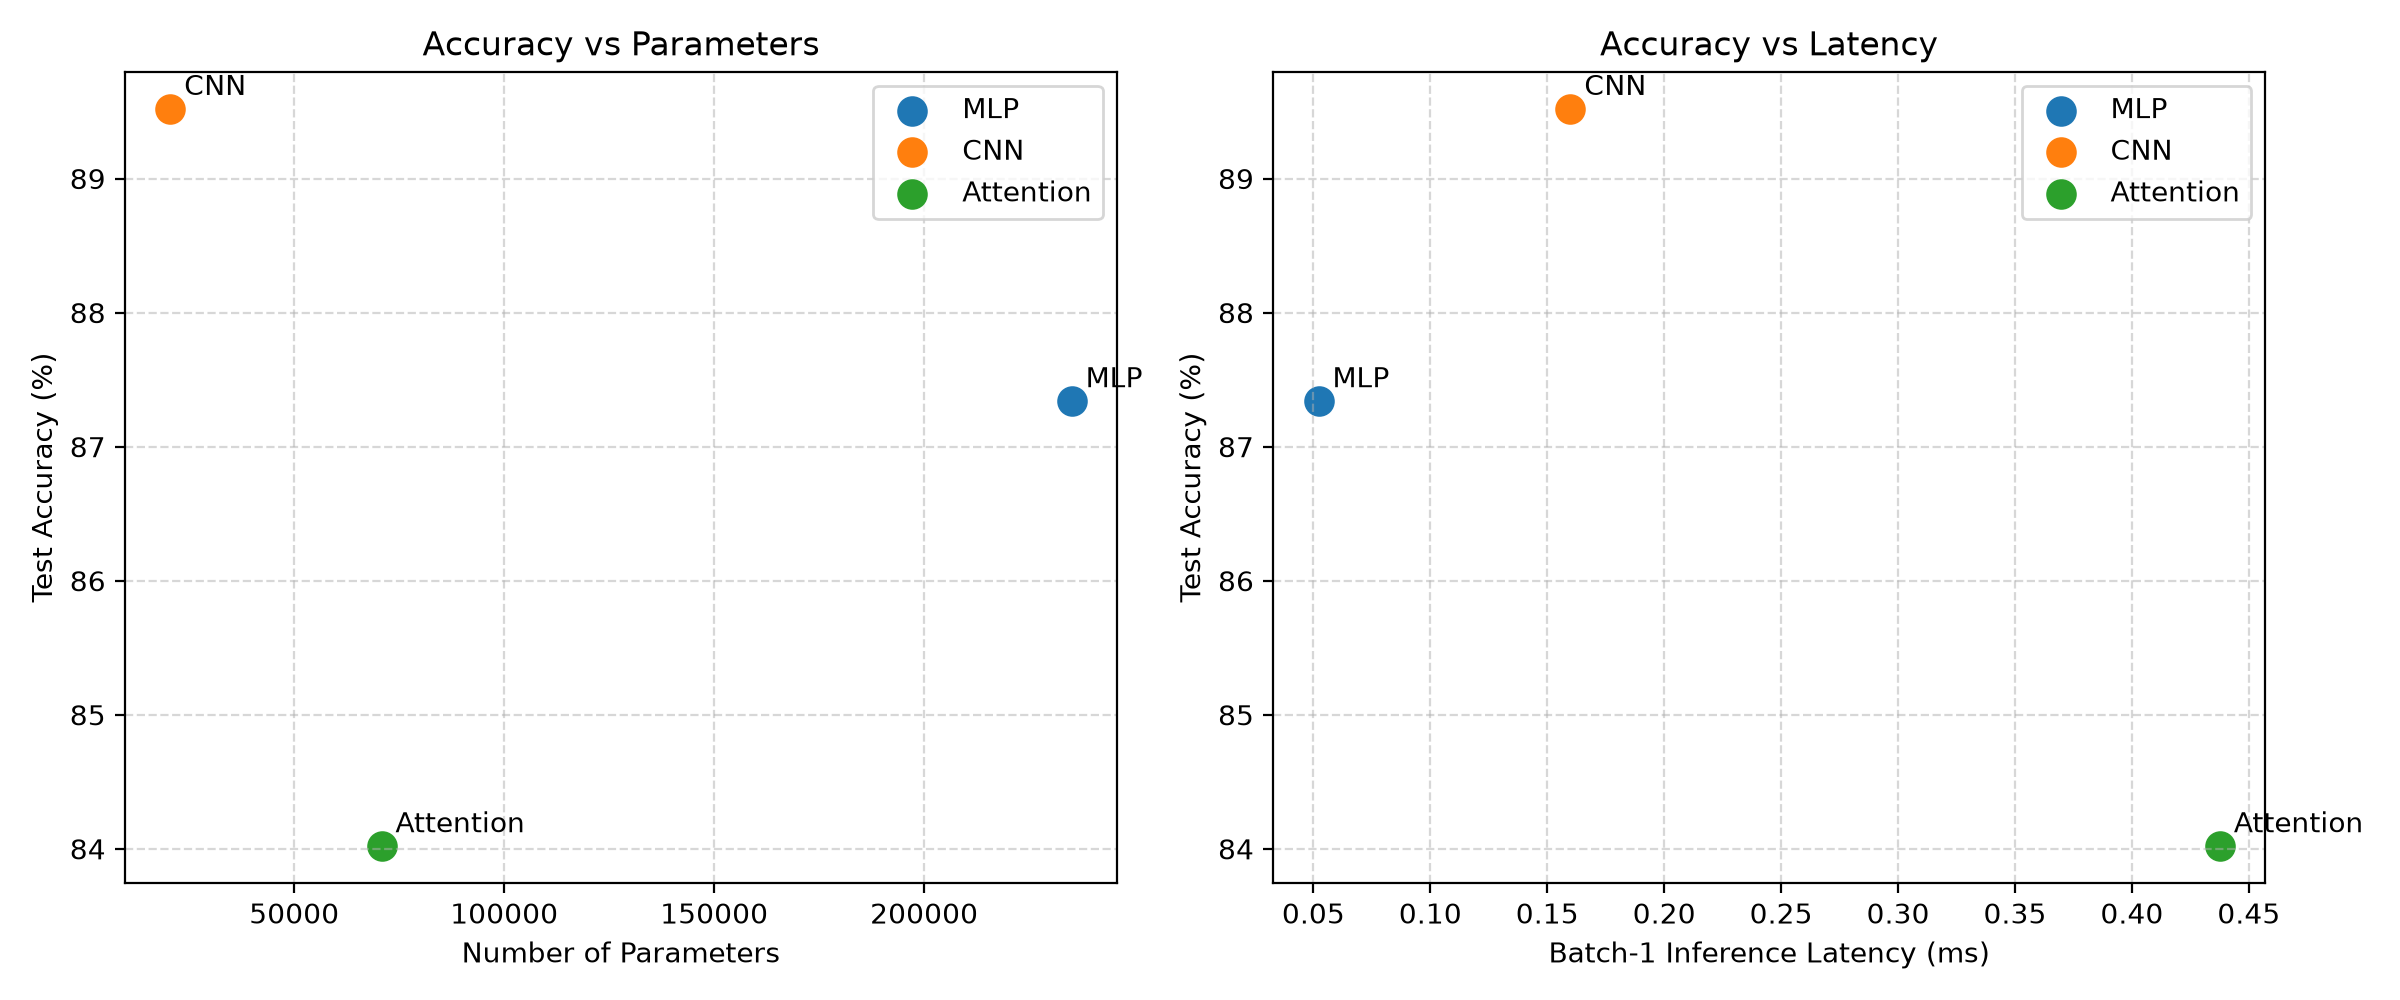
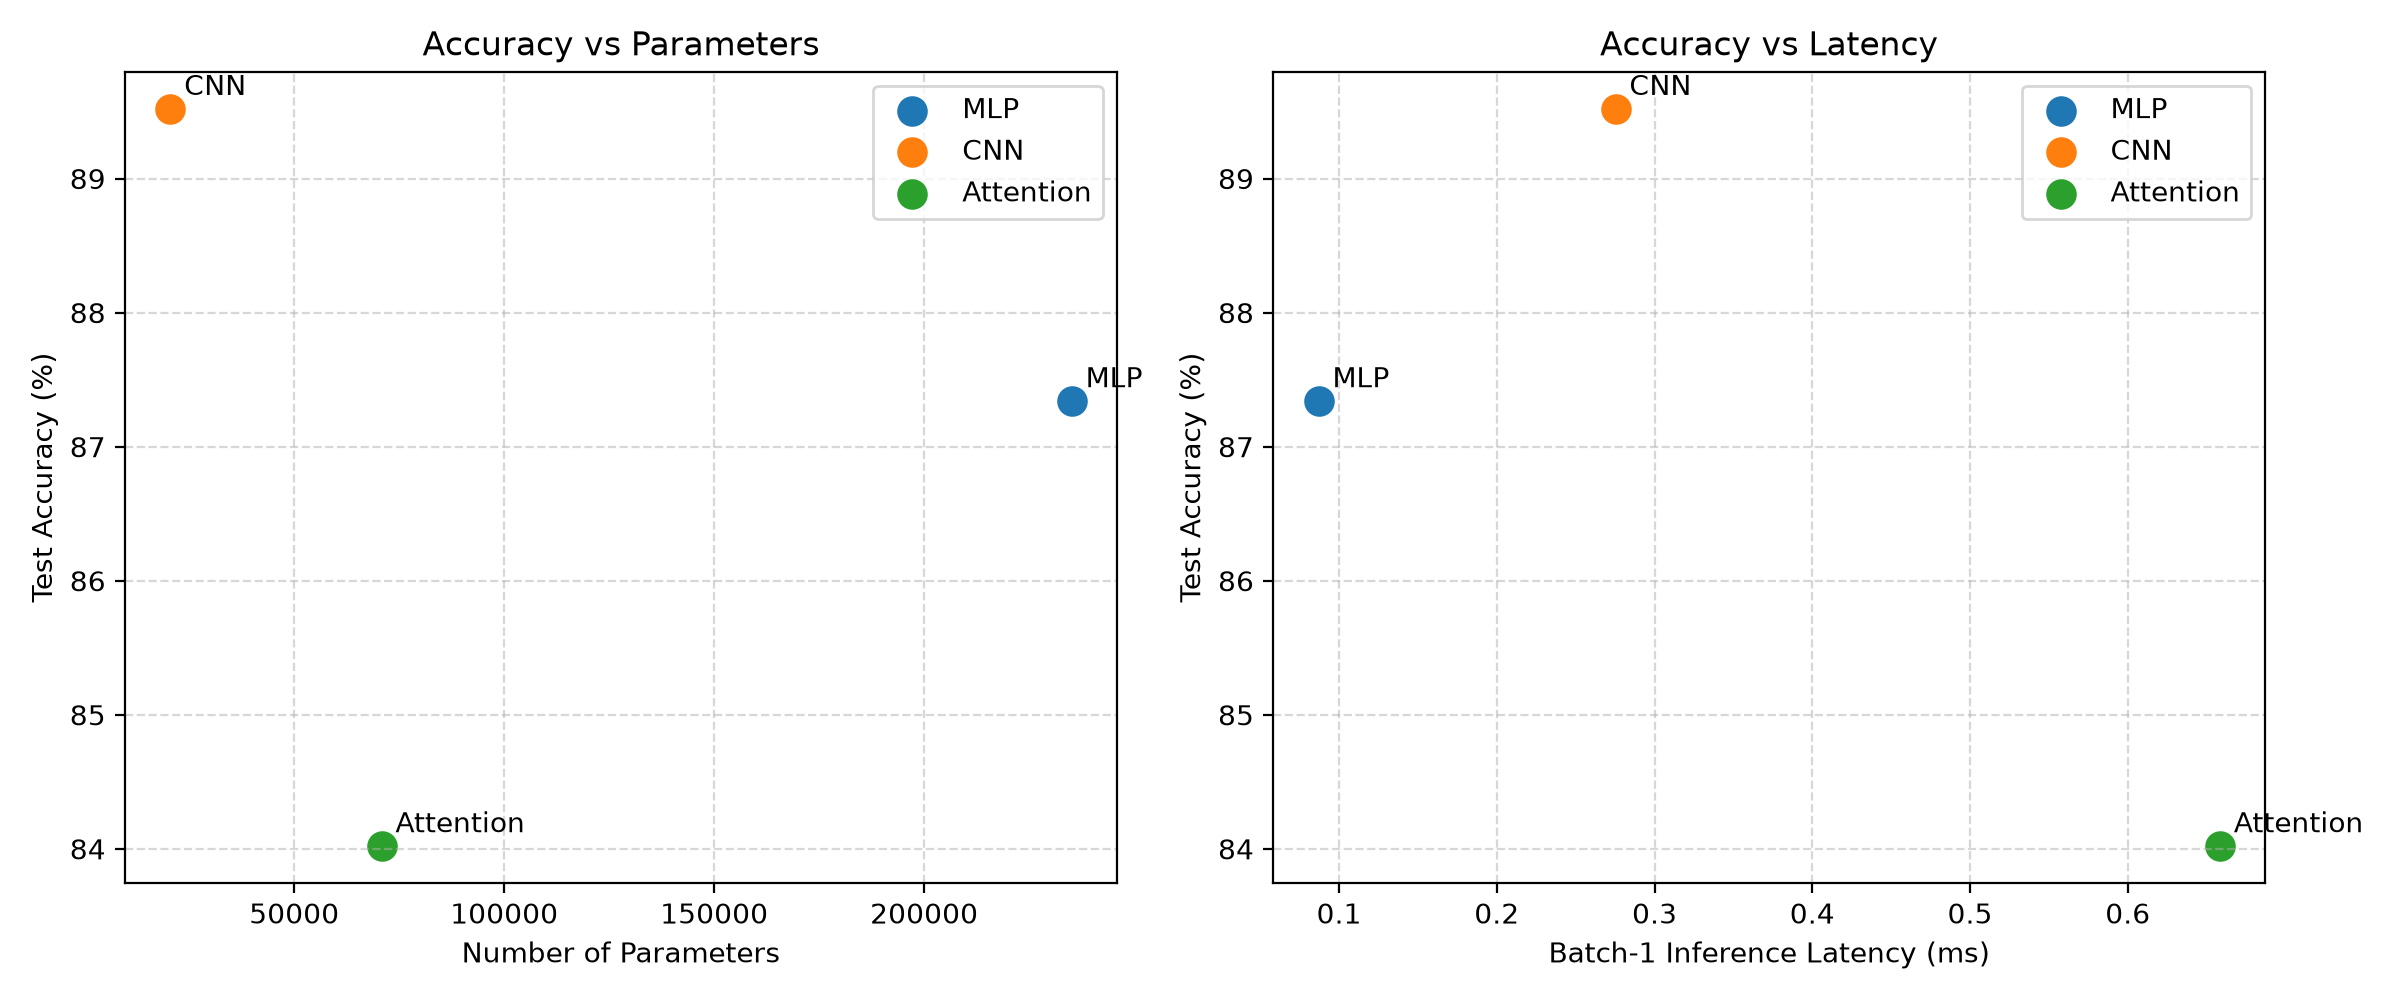
updated version

diff --git a/lab3.py b/lab3.py
@@ -12,9 +12,11 @@ import torch.optim as optim
 import torchvision
 import torchvision.transforms as transforms
 import thop
+import sys
 
 from torch.utils.data import DataLoader, random_split
 from torchinfo import summary
+sys.stdout.reconfigure(encoding='utf-8')
 
 # Experiment settings
 SEED = 42
@@ -306,9 +308,6 @@ def profile_model(model, inputs):
                 inputs=(inputs,),
                 verbose=False
             )
-
-        # THOP generally reports MACs not universally comparable
-        # hardware FLOP
         return {
             "macs": float(macs),
             "estimated_flops_2_per_mac": float(2 * macs),
@@ -353,7 +352,7 @@ def measure_latency(model, batch_size, runs):
         batch_size, 1, 28, 28, device=device
     )
 
-    # Warm-up runs are excluded from measurements
+    # Warm-up runs 
     with torch.inference_mode():
         for _ in range(10):
             model(inputs)
@@ -375,7 +374,6 @@ def measure_latency(model, batch_size, runs):
 
 
 for name, model in models.items():
-    # Manual specifies 100 runs for batch 1 and 20 for batch 128
     lat_1 = measure_latency(model, batch_size=1, runs=100)
     lat_128 = measure_latency(model, batch_size=128, runs=20)
 
@@ -482,7 +480,7 @@ def train_model(model, name):
             f"Val acc: {val_accuracy:.2f}%"
         )
 
-    # Evaluating the official test set after training
+    # Evaluating the official test set after train
     test_accuracy, test_loss = evaluate_model(
         model, test_loader, criterion
     )

diff --git a/report.md b/report.md
@@ -1,0 +1,57 @@
+# Lab 3 Report — Architecture Cost & Performance
+
+## Goal
+Compare an MLP, a CNN, and an Attention model on Fashion-MNIST and see which one gives the best accuracy per parameter, per FLOP, and per millisecond of latency.
+
+## Method
+Loaded Fashion-MNIST with `ToTensor()` and `Normalize((0.2860,), (0.3530,))`. Split the 60k training set into 55k train / 5k validation, kept the official 10k test set. Batch size 128, seed 42.
+
+Models:
+- **MLP**: `784 → 256 → 128 → 10` with ReLU.
+- **CNN**: two conv blocks (`Conv2d(1,16,3)` + MaxPool, `Conv2d(16,32,3)` + MaxPool) → Linear(32×7×7, 10).
+- **Attention**: 16 patches of 7×7 → Linear to 64 → 2 Transformer encoder layers (d_model=64, nhead=4, ff=128) → mean pool → Linear(64, 10).
+
+Counted parameters with `torchinfo.summary`, hand-calculated FLOPs for one layer of each type using the Ch. 4 formulas, and compared against `thop.profile`. Measured latency at batch 1 (median of 100) and batch 128 (median of 20). Trained all three for 5 epochs with Adam, lr=3e-3.
+
+## Results
+
+**Parameters**
+
+| Model | Params | Size (MB) |
+|---|---:|---:|
+| MLP | 235,146 | 0.94 |
+| CNN | 20,490 | 0.08 |
+| Attention | 70,794 | 0.15 |
+
+Only the CNN is close to the manual's 100k–150k target — the MLP overshoots and Attention undershoots. Reporting as measured.
+
+**Hand FLOPs vs THOP**
+
+| Model | Hand FLOPs (one layer) | THOP FLOPs |
+|---|---:|---:|
+| MLP (first Linear) | 401,408 | 469,504 |
+| CNN (first Conv2d) | 225,792 | 2,063,488 |
+| Attention (QKV) | 393,216 | 1,182,976 (whole model) |
+
+**Latency**
+
+| Model | Batch 1 (ms) | Batch 128 (ms) |
+|---|---:|---:|
+| MLP | 0.087 | 0.644 |
+| CNN | 0.275 | 25.651 |
+| Attention | 0.658 | 11.567 |
+
+**Training (5 epochs)**
+
+| Model | Test accuracy |
+|---|---:|
+| MLP | 87.34% |
+| CNN | **89.52%** |
+| Attention | 84.02% |
+
+Trade-off plots saved in `results/`.
+
+## Conclusions
+1. **The CNN was the most cost-effective.** Fewest parameters (20k) and highest test accuracy (89.52%), beating the 235k MLP (87.34%) by ~2 points and Attention (84.02%) by ~5.5 points. This matches the Ch. 4 access patterns: the CNN shares weights across spatial positions and exploits local structure, so each parameter does much more work than an MLP's.
+2. **The latency ranking flipped with batch size.** At batch 1 it was MLP < CNN < Attention, as expected. At batch 128 it became MLP < Attention < CNN — the CNN turned out slowest. My guess is that at larger batches the CNN's pooling and big spatial feature maps become the CPU bottleneck, while Attention scales more linearly.
+3. **Hand FLOPs and THOP differ for a real reason.** The MLP hand-calc on its first Linear is close to THOP's total, but the CNN hand-calc on the first Conv2d is ~9× smaller than THOP's total — the second Conv2d and final Linear contribute most of the MACs, and my formula also skips bias/ReLU/pooling. So the formulas are good for reasoning about which layer dominates, but THOP is what you want for a true model total.
